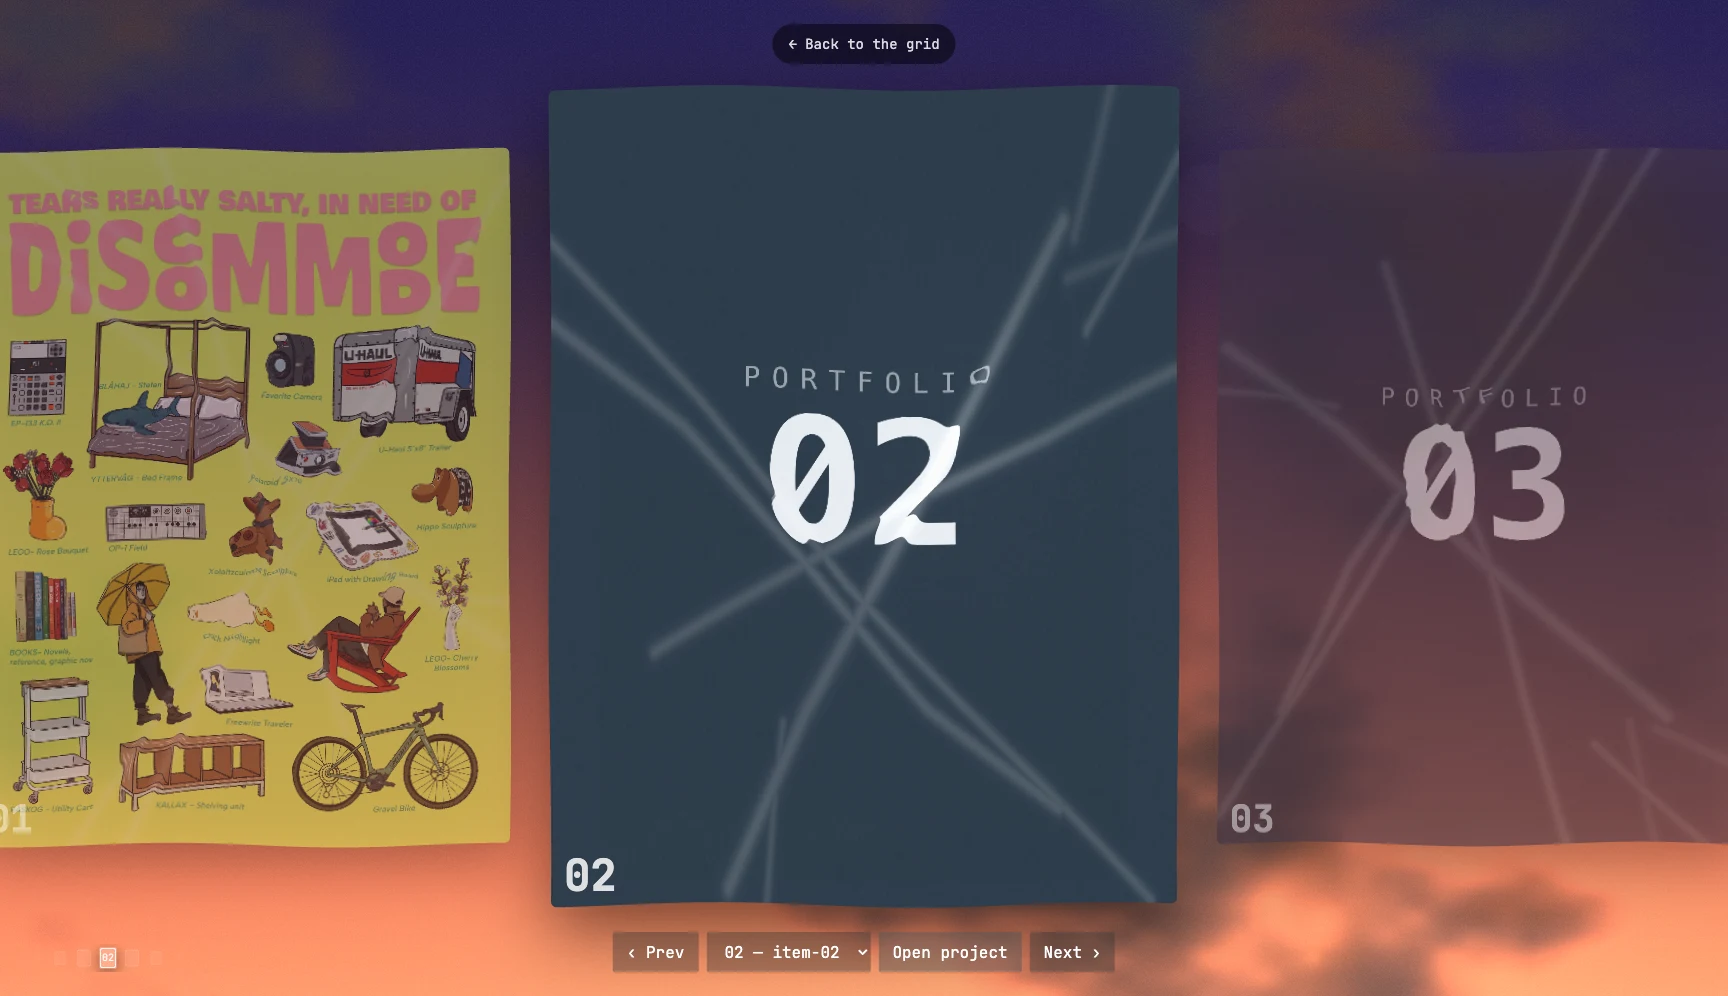
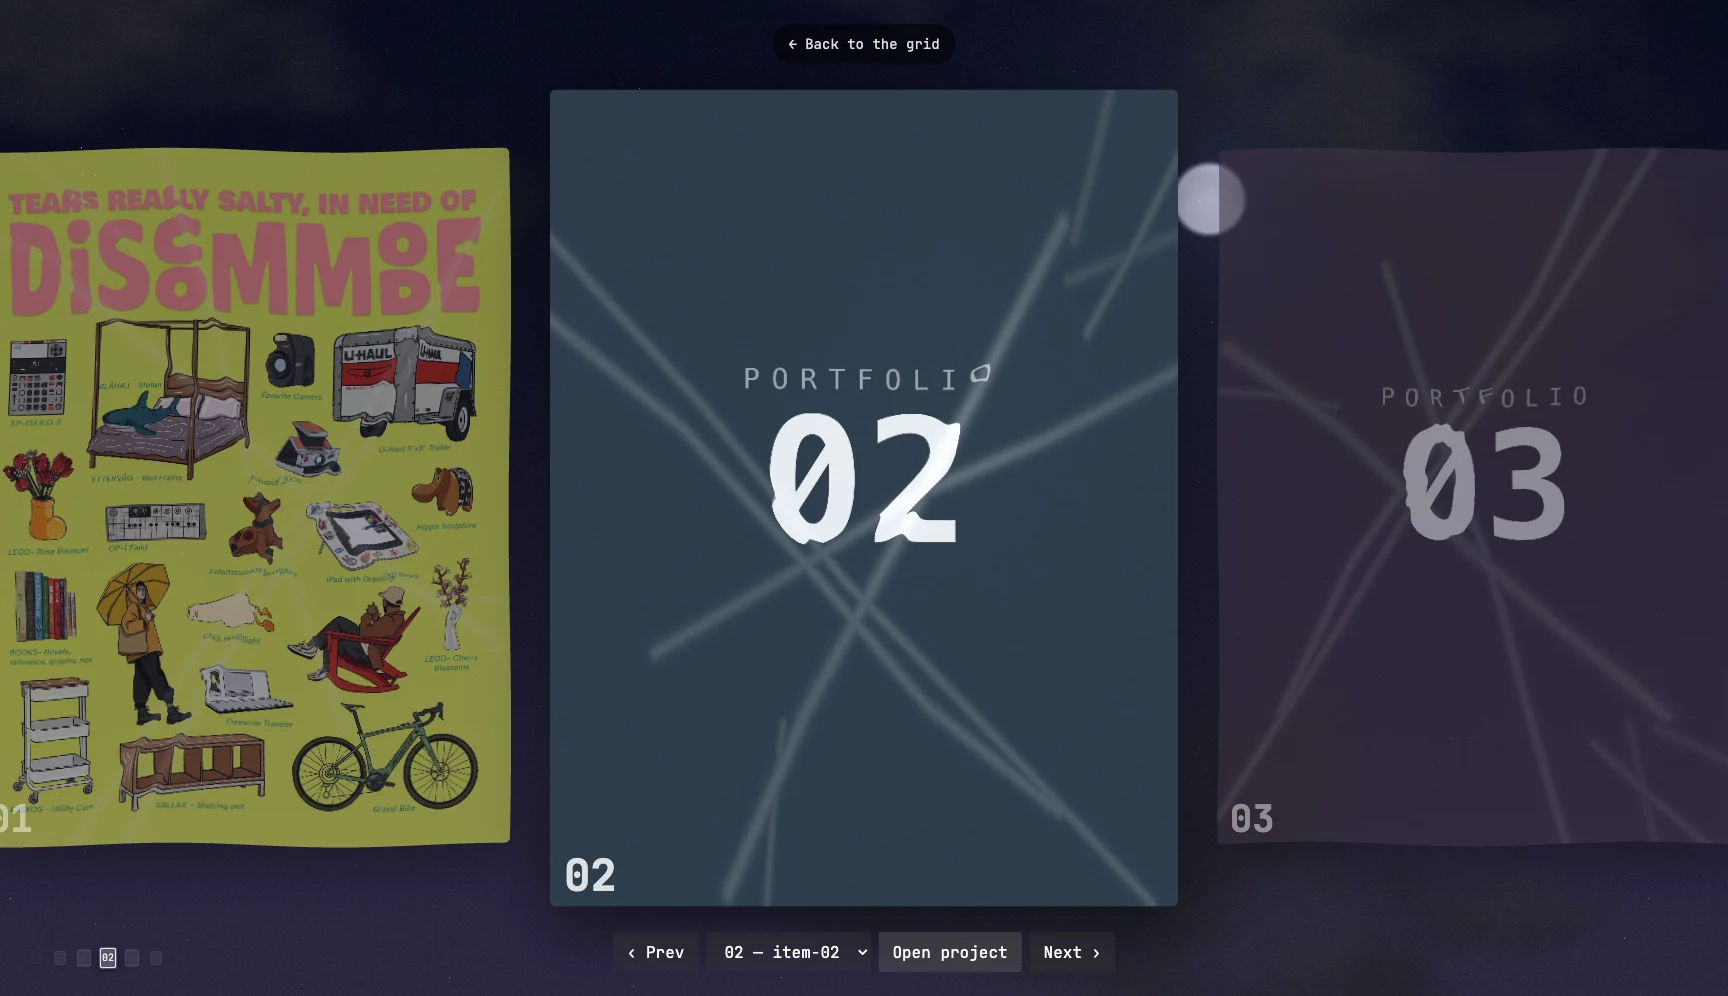
Detail paper: the hero lies flat at rest (heroRipple)
The hero's resting ripple put the cover plate 2-3px off the CoverAnimLayer's
DOM sprites at rest. The dial is split: `ripple` (0.01) stays on the
neighbours, `heroRipple` (default 0) is the hero's, and a panel blends between
them by its distance from the centre so a slide has no step. The dent still
applies on the hero while hovered.

verify:detail gains `registration`: at rest, nothing hovered, the hero plane's
ripple, dent, squash and fold are exactly 0 under its 20 sprites at 1x and 2x;
the neighbours ripple at 0.01; hovering dents the hero to 1 and leaving takes
it back to 0. 46/46. Screenshots re-captured.

diff --git a/src/components/DetailPaperLayer.tsx b/src/components/DetailPaperLayer.tsx
@@ -660,7 +660,12 @@ function createEngine(canvas: HTMLCanvasElement, input: EngineInputs) {
       u.uVelocity.value = zero ? 0 : vel;
       u.uSquash.value = paper.squash;
       u.uSquashScale.value = paper.squashScale;
-      u.uRipple.value = zero || still ? 0 : paper.ripple * P;
+      // The hero's ripple is its own dial (0 by default, so the plate stays
+      // registered with the DOM sprites at rest); a panel sliding between the
+      // hero slot and a neighbour's blends the two by its distance, so the
+      // slide has no step in it.
+      const ripple = paper.heroRipple + (paper.ripple - paper.heroRipple) * Math.min(1, p.dist);
+      u.uRipple.value = zero || still ? 0 : ripple * P;
       u.uFold.value = zero ? 0 : fold;
       u.uFoldAmp.value = paper.foldAmp;
       c.mesh.visible = tex !== null;
@@ -743,6 +748,22 @@ function createEngine(canvas: HTMLCanvasElement, input: EngineInputs) {
       /** Every plane's rect as the shader is told it, keyed by content idx. */
       rects: () =>
         (last?.panels ?? []).map((p) => ({ key: p.key, idx: p.idx, slot: p.slot, ...p.rect })),
+      /** Every plane's vertex-stage inputs — the terms that can move it off
+       *  the DOM sprites drawn over it. */
+      uniforms: () =>
+        (last?.panels ?? []).map((p) => {
+          const u = cards.get(p.key)?.mesh.material.uniforms;
+          return {
+            key: p.key,
+            idx: p.idx,
+            slot: p.slot,
+            ripple: u?.uRipple.value,
+            hover: u?.uHover.value,
+            velocity: u?.uVelocity.value,
+            fold: u?.uFold.value,
+            sprites: u?.uSpriteCount.value,
+          };
+        }),
       folds: () =>
         [...cards.entries()].map(([key, c]) => ({ key, fold: c.mesh.material.uniforms.uFold.value })),
       presence: () => sampleTween(presence, performance.now()),

diff --git a/src/components/detailPaper/paperDials.ts b/src/components/detailPaper/paperDials.ts
@@ -27,8 +27,15 @@ export interface PaperDials {
   squash: number;
   /** Cap on the velocity-driven scale-up. */
   squashScale: number;
-  /** The resting ripple's amplitude, in card heights. */
+  /** The resting ripple's amplitude on the NEIGHBOURS, in card heights. */
   ripple: number;
+  /**
+   * The resting ripple on the HERO. 0: the hero's plate carries Issue 01's hover
+   * sprites, which are DOM and flat, and any ripple under them puts the cover
+   * 2–3px off its own objects at rest. The dent still applies — that is a
+   * hover, and it ends when the hover does.
+   */
+  heroRipple: number;
   /** How long a neighbour takes to un-crumple into its slot (ease-out). */
   foldMs: number;
   /** The fold's vertex amplitude; the reveal edge ignores it. */
@@ -47,6 +54,7 @@ export const PAPER_DEFAULTS: PaperDials = {
   squash: 0.7,
   squashScale: 0.185,
   ripple: 0.01,
+  heroRipple: 0,
   foldMs: 700,
   foldAmp: 1.0,
   segments: 40,

diff --git a/src/dev/detailPaperDials.ts b/src/dev/detailPaperDials.ts
@@ -28,6 +28,7 @@ export function useDetailPaperDials(): void {
       squash: [D.squash, 0, 3, 0.05],
       squashScale: [D.squashScale, 0, 0.5, 0.005],
       ripple: [D.ripple, 0, 0.05, 0.001],
+      heroRipple: [D.heroRipple, 0, 0.05, 0.001],
       foldMs: [D.foldMs, 100, 2000, 10],
       foldAmp: [D.foldAmp, 0, 2, 0.05],
       segments: [D.segments, 4, 96, 1],
@@ -46,6 +47,7 @@ export function useDetailPaperDials(): void {
       squash: v.squash,
       squashScale: v.squashScale,
       ripple: v.ripple,
+      heroRipple: v.heroRipple,
       foldMs: v.foldMs,
       foldAmp: v.foldAmp,
       segments: Math.max(1, Math.round(v.segments)),

diff --git a/docs/detail-paper.md b/docs/detail-paper.md
@@ -3,9 +3,10 @@
 Once the detail view has settled, its three cards (the hero and the Prev/Next
 neighbours) are no longer `<img>`s. A WebGL canvas draws them as sheets of paper.
 A crease texture refracts and lights the artwork, the sheet dents under the
-cursor, the row squashes with its own velocity, every card carries a faint
+cursor, the row squashes with its own velocity, the neighbours carry a faint
 resting ripple, and a card arriving in a neighbour slot un-crumples into it.
-Reference: <https://justinesoulie.fr/>. Its behaviour is ported, its numbers are
+The hero lies flat at rest (`heroRipple` 0) so its cover stays registered with
+the DOM sprites drawn over it. Reference: <https://justinesoulie.fr/>. Its behaviour is ported, its numbers are
 not.
 
 The grid, the reader, the doorway and the portfolio view are untouched. The DOM
@@ -14,8 +15,9 @@ canvas only takes over in between, and gives the cards back before anything
 else moves them.
 
 > **On the numbers in this file.** Architecture and dials are as shipped.
-> Every *measurement* comes from `npm run verify:detail` on 2026-09-21: headless
-> Chrome, at 1728×996 and 1440×900, 1× and 2×, on an Apple M1 Max.
+> Every *measurement* comes from `npm run verify:detail` on 2026-09-21 (46/46,
+> re-run after `heroRipple`): headless Chrome, at 1728×996 and 1440×900, 1× and
+> 2×, on an Apple M1 Max.
 
 | | rest, paper on | rest, paper off |
 | --- | --- | --- |
@@ -156,7 +158,7 @@ Vertex (all in card heights, then to CSS px, then the perspective above):
 | --- | --- |
 | dent | `z −= (1 − smoothstep(0, uHoverRadius, ‖uv − 0.5 − uHit‖)) · uHover · uHoverDepth` |
 | squash | `z += max(|v| · −uSquash, −0.1)`; the card scales by `1 + min(|v| / 10, uSquashScale)` about its centre |
-| ripple | `z −= sin(uv.y·10 + uIndex) · uRipple`; `y −= cos(uv.x·10 + uIndex + 100) · uRipple · 0.35` |
+| ripple | `z −= sin(uv.y·10 + uIndex) · uRipple`; `y −= cos(uv.x·10 + uIndex + 100) · uRipple · 0.35`. `uRipple` is `mix(heroRipple, ripple, min(1, |i − pos|))`: the hero's own dial in the centre slot, the neighbours' one slot out, blended in between so a slide has no step. |
 | fold | `f = uFold · uFoldAmp`; `a = uv.x·0.4 + uv.y·2π + uIndex·0.05`; `z += 0.4f − 0.15f·cos a`; `y −= 0.35f·cos a` |
 
 Fragment:
@@ -212,7 +214,8 @@ value the other opens with. `paperDials.ts` is the source of truth.
 | `hoverMs` | 300 | dent in and out, cubic out |
 | `squash` | 0.7 | push-back per unit velocity |
 | `squashScale` | 0.185 | cap on the velocity swell |
-| `ripple` | 0.01 | resting ripple, card heights |
+| `ripple` | 0.01 | resting ripple on the neighbours, card heights |
+| `heroRipple` | 0 | resting ripple on the hero. 0 keeps the cover registered with its DOM hover sprites at rest (a ripple puts it 2–3px off them); the dent still applies while hovered |
 | `foldMs` | 700 | un-crumple, ease out |
 | `foldAmp` | 1.0 | fold vertex amplitude (the reveal edge ignores it) |
 | `segments` | 40 | plane subdivisions per side |
@@ -236,20 +239,24 @@ the script replaces it, with no code change.
 The CoverAnimLayer's sprites are DOM, drawn on top of the canvas's plate. They
 stay registered with it because, inside every sprite's rect (read from the
 sprites' inline px, passed as up to 24 UV rects), the crease displacement is 0.
-That holds the refraction still. It does **not** hold the geometry still: the
-dent, the ripple and the squash move the plate under a sprite by a few pixels,
-and the sprite does not move with it.
+That holds the refraction still. **At rest the geometry is still too**: the hero
+has no ripple (`heroRipple` 0), and with nothing hovered and the row still, its
+dent, squash and fold are all 0, so every vertex term is 0 and the plate is
+exactly where the sprites expect it. `verify:detail` asserts this
+(`registration`). What does move the plate under the sprites is the dent while
+the hero is hovered, and the squash while the row slides. Both are transient,
+and the sprite does not move with them.
 
 ## Running the checks
 
 ```
 npm test && npx tsc -b && npm run lint
 npm run dev                   # in another shell
-npm run verify:detail         # --url <origin>, --only rects,identity,handoff,sprites,nav,leave,frames,reduced
+npm run verify:detail         # --url <origin>, --only rects,identity,handoff,sprites,registration,nav,leave,frames,reduced
 ```
 
 About two minutes. It drives the layer through `window.__paper` (dev only):
-`state`, `presence`, `rects`, `projected`, `folds`, `override({ zero })`,
+`state`, `presence`, `rects`, `projected`, `uniforms`, `folds`, `override({ zero })`,
 `freezePresence`, `holdOut`, `handOut`, `set`. Pixel checks hide the sky and the
 dev overlays first. A pixel counts as different past 32 levels, the portfolio
 view's tolerance and for its reason.
@@ -275,6 +282,11 @@ That is layout's 1/64px grid against doubles: zero, for any purpose.
 **Hand-off**, at presence 0, *is* the identity. In and out agree to 0.04%:
 `#item-04` @1× is in 5.723%, out 5.765% (card 01 on the right), and cards 02–04
 are at most 0.225%.
+
+**Registration**, at 1× and 2×: at rest with nothing hovered, the hero plane's
+ripple, dent, squash and fold are all exactly 0 under its 20 sprites, and the
+neighbours ripple at 0.01. Hovering the hero takes the dent to 1.000, and
+leaving takes it back to 0.
 
 **Also checked:** hovering a cover object still mounts and plays its animation
 with the canvas underneath, and the point under the pointer is the panel, never
@@ -316,7 +328,8 @@ are identical (0 levels).
    quality), or promoting the neighbour panels to their own layers so that the
    DOM side is the one whose resampling is known.
 2. **The sprites should be in the texture.** The sprite caveat above is a
-   workaround. The proper fix is to draw the CoverAnimLayer's current frames
+   workaround: `heroRipple` 0 registers them at rest, but not under a dent or
+   a squash. The proper fix is to draw the CoverAnimLayer's current frames
    into the plate texture (or as their own quads in this canvas) so the sprites
    bend with the paper. It was not done: animated WebP frames are not
    addressable from WebGL without decoding them ourselves (`ImageDecoder`), and
